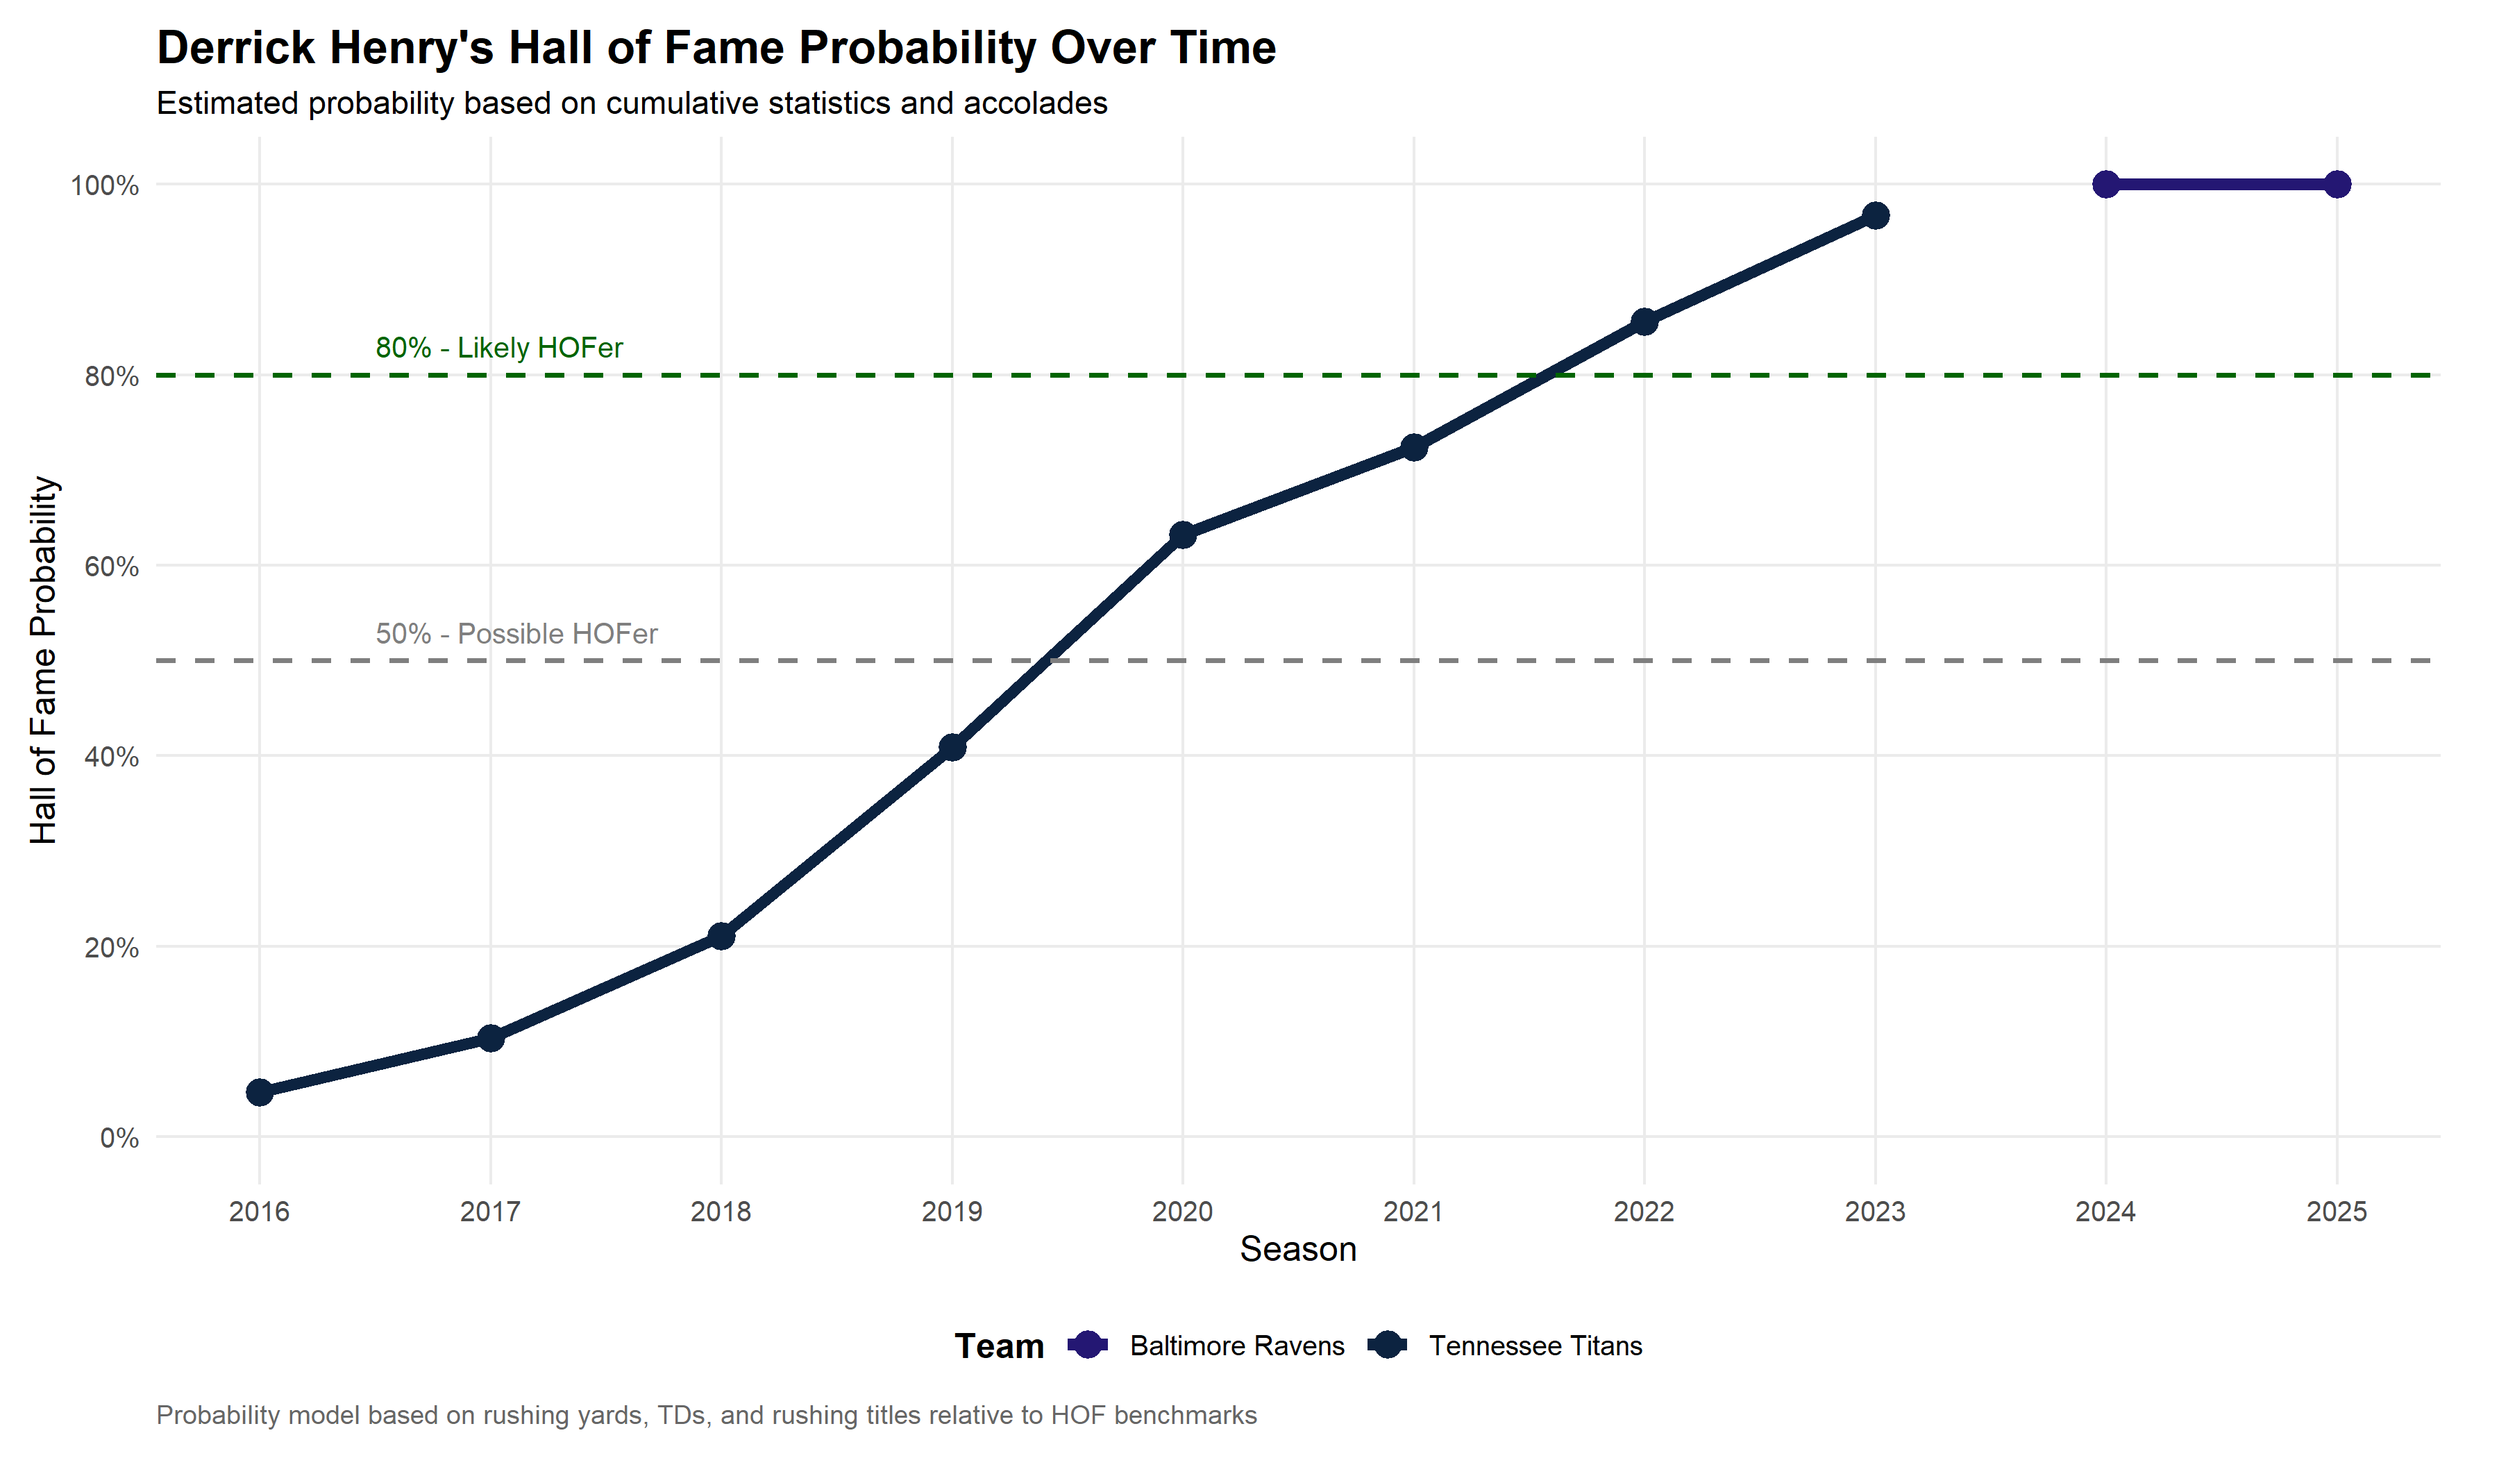
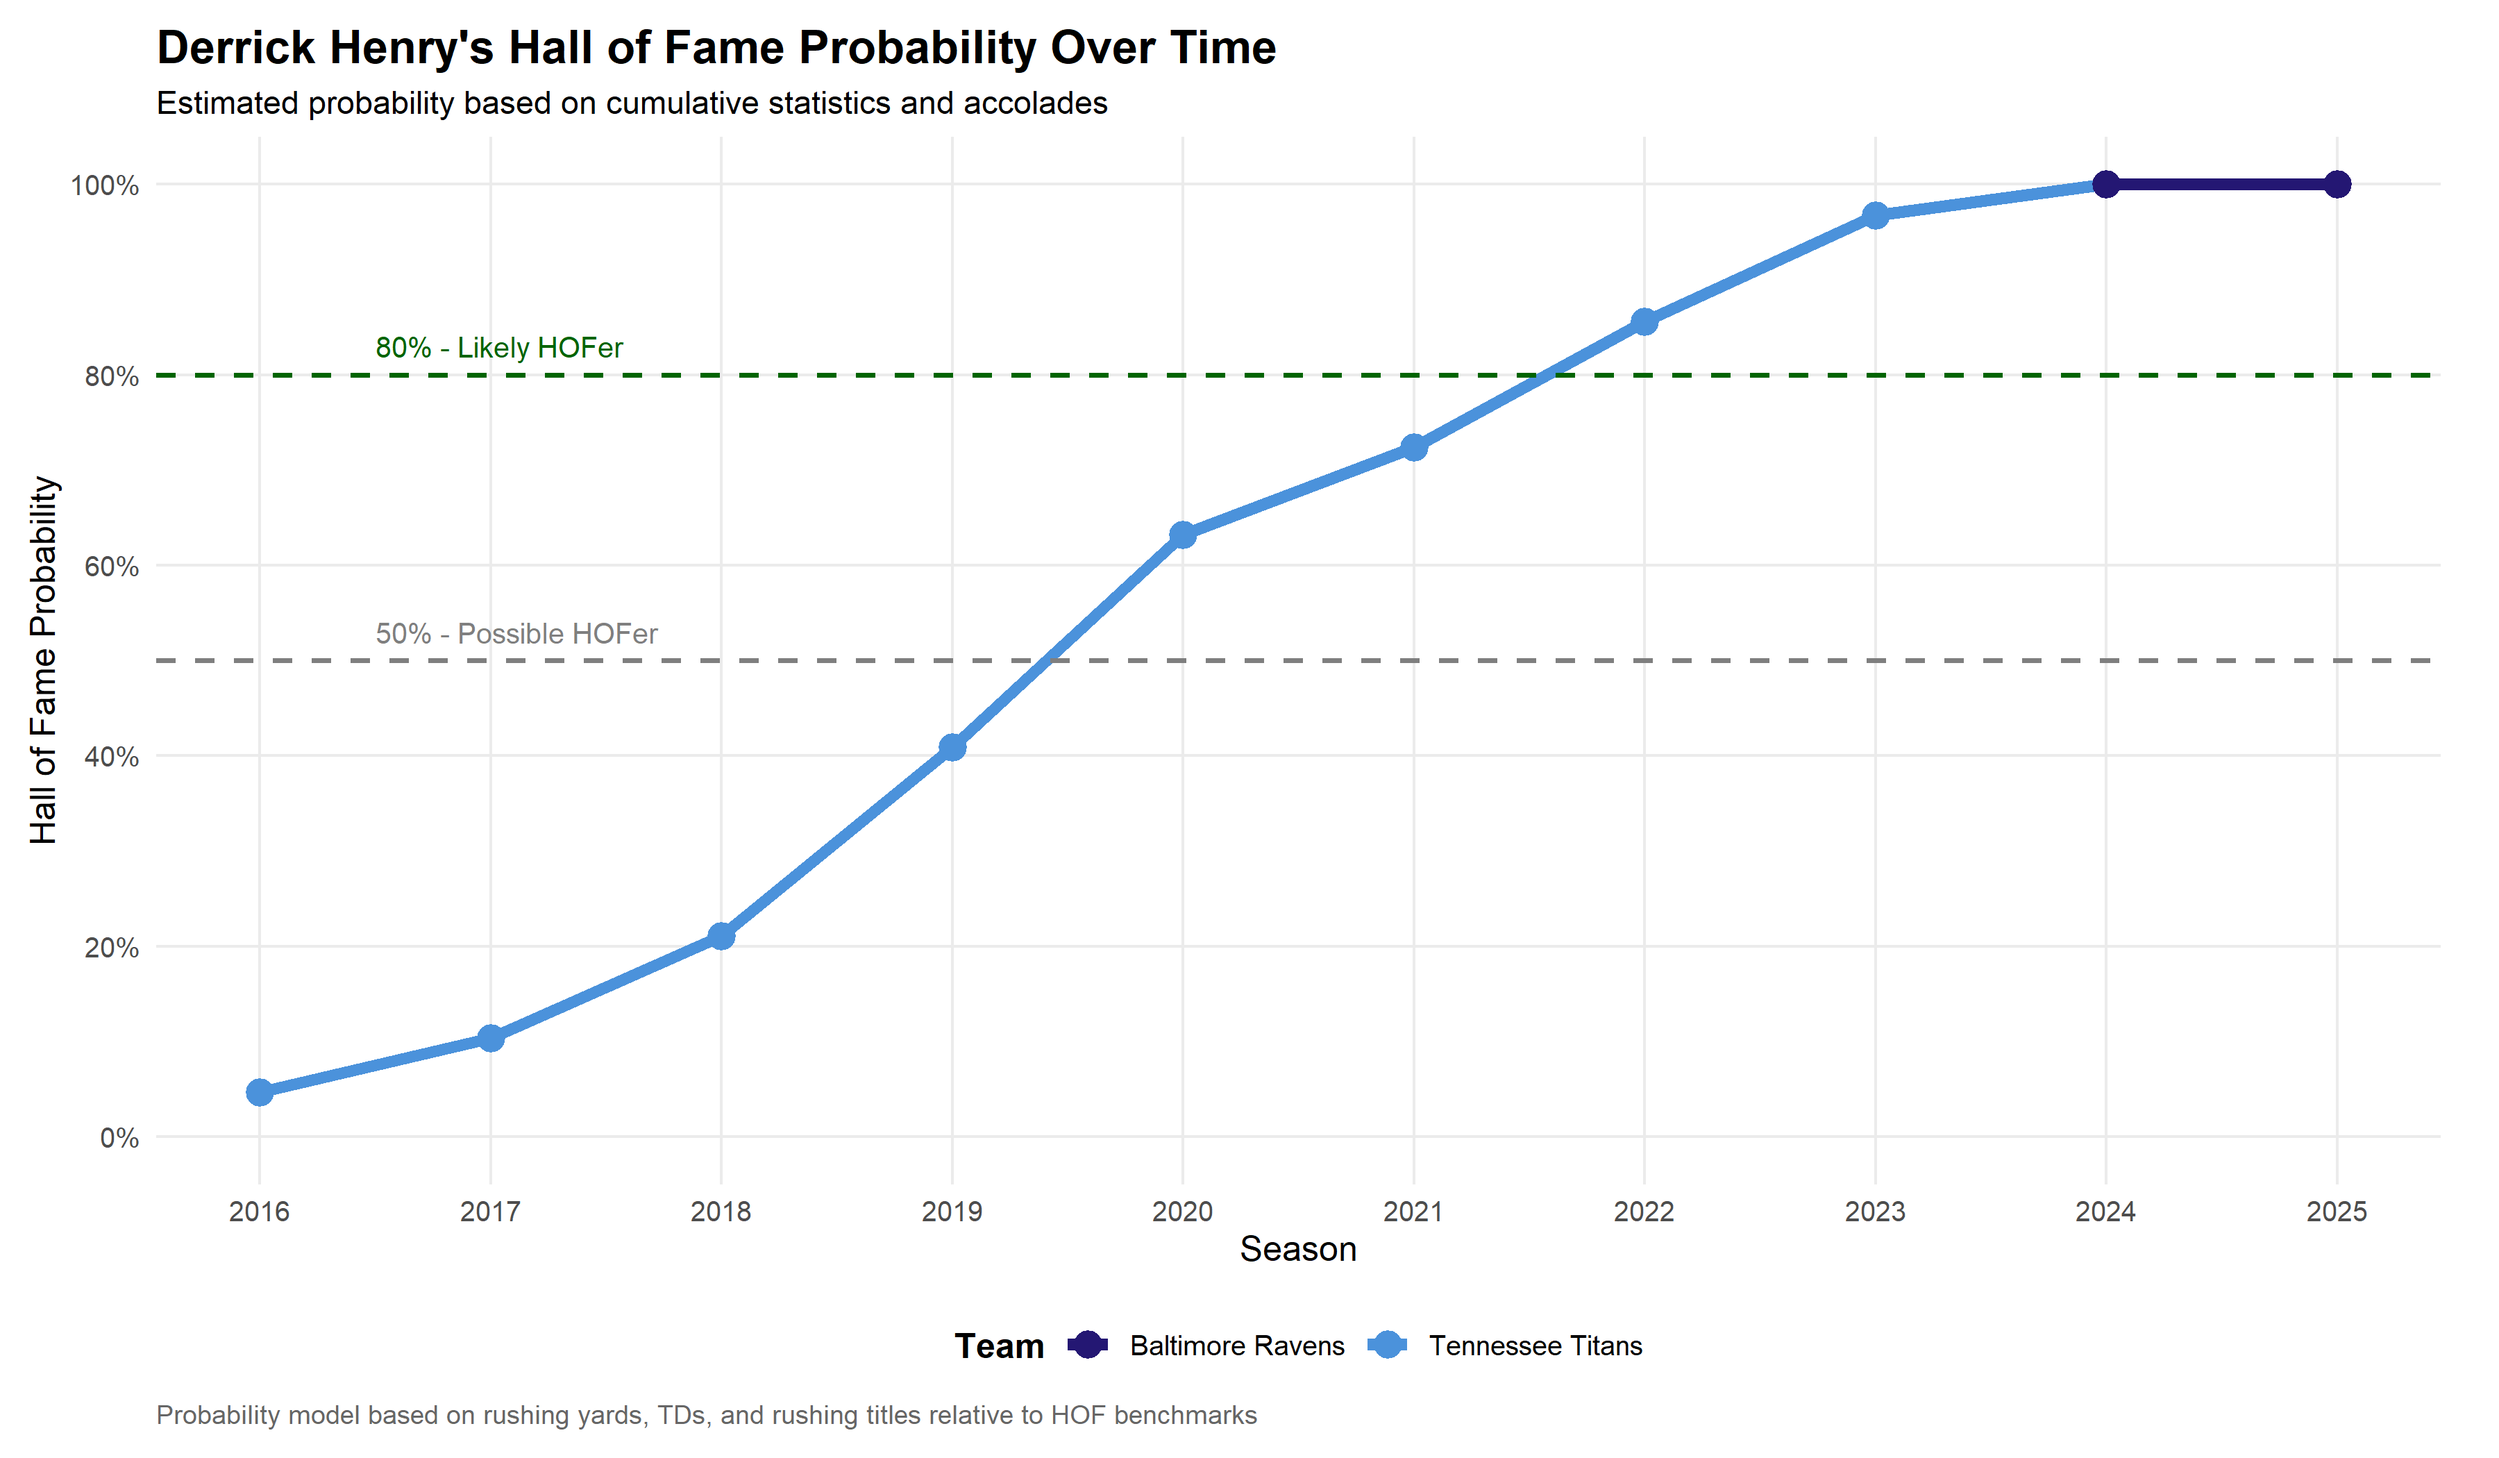
Add era context analysis and improve HOF probability documentation
Major additions:
- Added "Era Context: Running Back Positional Devaluation" section
  - Documents modern RB challenges (MVP drought, positional devaluation)
  - Shows HOF voting reality (21 RB nominees → 2 semifinalists)
  - Argues Henry's achievements are MORE impressive in modern context
  - Addresses counterarguments about volume/efficiency

- Enhanced HOF probability visualization
  - Improved team color contrast (Tennessee light blue vs Ravens purple)
  - Added connecting line between teams in Tennessee color
  - Documented complete probability calculation methodology

- Minor corrections
  - Fixed YPC from 4.87 to 4.89 in Key Strengths
  - Corrected outdated "needs 314 more yards" text

Sources cited: ESPN analysis, PFR HOF Monitor, 2026 HOF voting data

diff --git a/README.md b/README.md
@@ -80,12 +80,38 @@ Even conservative projections show Henry finishing with Hall of Fame-caliber car
 
 This chart shows Henry's estimated Hall of Fame probability over time, colored by team. The line shows a dramatic increase during his peak years (2019-2020) with the Tennessee Titans, when he won back-to-back rushing titles. After joining the Baltimore Ravens in 2024, his probability reached 100% by exceeding the Hall of Fame median benchmarks.
 
+**Probability Calculation Methodology:**
+
+The HOF probability is calculated using a simplified statistical model based on cumulative career statistics relative to Hall of Fame benchmarks:
+
+1. **Base Probability Calculation:**
+   - Calculate percentage of HOF median for cumulative rushing yards: `yards_pct = cumulative_yards / 12,739 × 100`
+   - Calculate percentage of HOF median for cumulative rushing TDs: `tds_pct = cumulative_tds / 91 × 100`
+   - Base probability = average of these two percentages: `base_prob = (yards_pct + tds_pct) / 2`
+   - Capped at 100% maximum
+
+2. **Accolade Bonus:**
+   - +5% bonus after winning first rushing title (2019 season)
+   - +10% bonus after winning second rushing title (2020 season onward)
+   - Additional major accolades (OPOY, All-Pro) implicitly reflected in statistical achievements
+
+3. **Final Probability:**
+   - `HOF_probability = min(100%, base_prob + accolade_bonus)`
+   - Ensures probability never exceeds 100% or falls below 0%
+
+**Key Thresholds:**
+- **50% (Possible HOFer):** Player approaching or near HOF median benchmarks
+- **80% (Likely HOFer):** Player significantly exceeds HOF median benchmarks
+- **100%:** Player has definitively exceeded both HOF median benchmarks with additional accolades
+
+This model provides a simplified estimate based on quantitative metrics. Actual Hall of Fame selection involves subjective factors including era dominance, cultural impact, and voting committee preferences.
+
 ## Key Strengths
 
 ✓ **2x NFL Rushing Champion** - Demonstrates elite peak performance
 ✓ **2,000-yard season** - Rare achievement (only 8 players in NFL history)
 ✓ **Physical dominance** - Changed how defenses game-plan
-✓ **Elite efficiency** - 4.87 yards per carry is exceptional
+✓ **Elite efficiency** - 4.89 yards per carry is exceptional
 ✓ **Already exceeds HOF median for TDs** - 122 TDs (median: 91)
 
 ## Key Weaknesses
@@ -103,6 +129,67 @@ This chart shows Henry's estimated Hall of Fame probability over time, colored b
 His peak performance (2019-2020, 2024) was elite, and with 10 seasons of production, he has both the peak and longevity needed for enshrinement.
 
 **Current Projection:** Hall of Famer. With 1-2 more productive seasons, he could become a **first-ballot** selection. He's already cemented his place among the all-time great running backs.
+
+## Era Context: Running Back Positional Devaluation
+
+### The Modern Running Back Challenge
+
+Derrick Henry's achievements must be understood within the context of **dramatic running back positional devaluation** in the modern NFL. Traditional Hall of Fame prediction models (including [Pro Football Reference's HOF Monitor](https://www.sports-reference.com/blog/pfr-hof-monitor-methodology/)) apply era adjustments for quarterbacks, wide receivers, and tight ends to account for the passing explosion post-1980, but **do not adjust expectations for running backs** despite significant changes to the position's role and value.
+
+### The MVP Drought
+
+**Last RB MVP:** Adrian Peterson (2012) - over 13 years ago
+
+Despite rushing for 2,027 yards in 2020 (8th-highest single season in NFL history), Henry won Offensive Player of the Year but wasn't seriously considered for MVP. As [ESPN's analysis](https://www.espn.com/nfl/story/_/id/37985469/why-star-nfl-running-backs-devalued-next-2023-free-agency-future) notes: *"A league that was once built around star backs dominating offensive workloads and competing for MVP awards now feels like something entirely different."*
+
+The reality: **A running back may never win MVP again** in the pass-dominant modern NFL, making "needs MVP for first-ballot lock" an unrealistic benchmark for evaluating 2020s running backs.
+
+### Hall of Fame Voting Reality
+
+Recent [Hall of Fame Class of 2026 voting](https://www.profootballhof.com/news/2025/11/26-modern-era-players-named-as-semifinalists-for-pro-football-hall-of-fame%E2%80%99s-class-of-2026/) illustrates the challenge:
+- **21 running backs** nominated initially
+- Only **2 advanced to semifinals** (Frank Gore, Fred Taylor)
+- Compare to: **5 WR semifinalists**, **3 QB semifinalists**
+
+Running backs face the toughest path to enshrinement in the modern era, with voting committees potentially undervaluing the position despite its historical importance.
+
+### Why This Makes Henry's Case Stronger
+
+Rather than weakening his candidacy, the modern context **amplifies Henry's achievements**:
+
+1. **Bucking the Trend**
+   - Produced elite, workhorse numbers in an era of running-back-by-committee
+   - Led the NFL in rushing (2019, 2020) when passing dominance was supposed to make this impossible
+   - Averaged 300+ carries in his peak seasons despite league-wide trend toward reduced RB workloads
+
+2. **Historic Rarity in Modern Context**
+   - 2,000-yard season in 2020 is **more impressive** than equivalent achievements pre-2010
+   - Only 8 players in NFL history have reached 2,000 rushing yards; Henry did it in the **pass-dominant era**
+   - Maintained 4.89 YPC over career despite being known commodity with high volume
+
+3. **Era Dominance**
+   - Not just good statistics - Henry **dominated his era** at the position
+   - Changed how defenses prepared and game-planned despite knowing he would get the ball
+   - Proved running backs could still be centerpiece of offense in 2020s
+
+### The Counterargument
+
+Some may argue Henry's statistics are **inflated** by being a volume back on run-heavy offenses. However:
+- His efficiency (4.89 YPC) remains elite despite predictable usage
+- His 2020 season came in a 16-game format (would extrapolate to 2,153 yards over 17 games)
+- He has maintained production into his 30s, defying typical RB aging curves
+
+### Implications for This Analysis
+
+**This analysis uses historical HOF benchmarks without era adjustment**, which means:
+
+1. **Traditional benchmarks may undervalue** modern RB achievements
+2. **MVP requirement is unrealistic** for 2020s running backs (Henry's OPOY is functionally equivalent)
+3. **Hall voters must decide**: Compare raw stats to historical RBs OR recognize era difficulty
+
+**Our Assessment:** Henry's achievements should be weighted **more heavily**, not less, when considering modern running back devaluation. Dominating the rushing title race in 2019-2020 is arguably more impressive than doing so in the 1970s-1990s when running backs were the focal point of most offenses.
+
+The Hall of Fame voting will ultimately determine whether voters apply this era context - but Henry's case is strengthened, not weakened, by the difficulty of accomplishing what he did in the modern NFL.
 
 ## Data Sources
 
